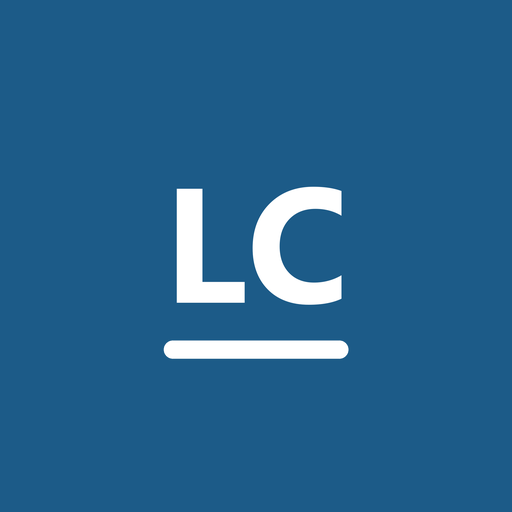
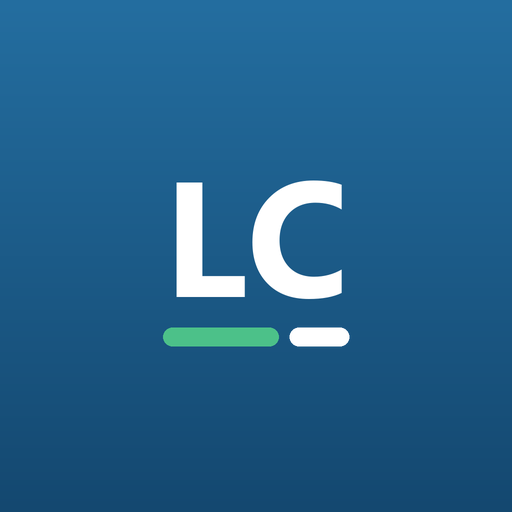
Novo icone do app (monograma LC com barra de saldo)

diff --git a/sw.js b/sw.js
@@ -4,9 +4,9 @@
    - Firebase e fontes (endereços com versão fixa): cache primeiro.
    - Chamadas de dados do Firestore/login: nunca passam por aqui
      (o próprio Firebase guarda os dados offline no aparelho). */
-const VERSAO = 'v4';
+const VERSAO = 'v5';
 const CASCA = `casca-${VERSAO}`, LIBS = `libs-${VERSAO}`;
-const ARQUIVOS = ['./', './index.html', './css/app.css', './js/config.js', './js/logic.js', './js/app.js', './js/firebase.js', './manifest.webmanifest', './icones/icone-192.png', './icones/icone-512.png'];
+const ARQUIVOS = ['./', './index.html', './css/app.css', './js/config.js', './js/logic.js', './js/app.js', './js/firebase.js', './manifest.webmanifest', './icones/icone-192.png', './icones/icone-512.png', './icones/icone-180.png', './icones/favicon-32.png'];
 
 self.addEventListener('install', ev => {
   ev.waitUntil(caches.open(CASCA).then(c => Promise.all(ARQUIVOS.map(u => c.add(new Request(u, { cache: 'reload' })).catch(() => { })))).then(() => self.skipWaiting()));

diff --git a/index.html b/index.html
@@ -8,6 +8,7 @@
 <meta name="theme-color" content="#1C5B88">
 <meta name="color-scheme" content="light dark">
 <link rel="manifest" href="manifest.webmanifest">
+<link rel="icon" type="image/png" sizes="32x32" href="icones/favicon-32.png">
 <link rel="icon" type="image/png" sizes="192x192" href="icones/icone-192.png">
 <link rel="apple-touch-icon" href="icones/icone-180.png">
 <meta name="apple-mobile-web-app-capable" content="yes">
